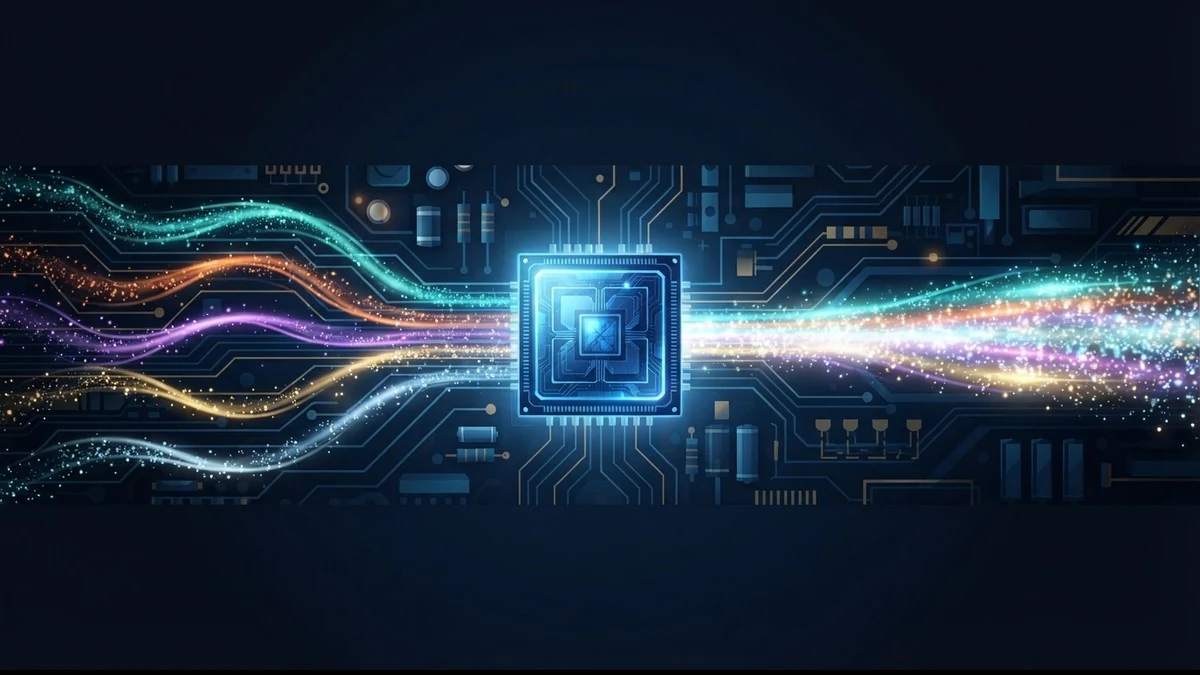
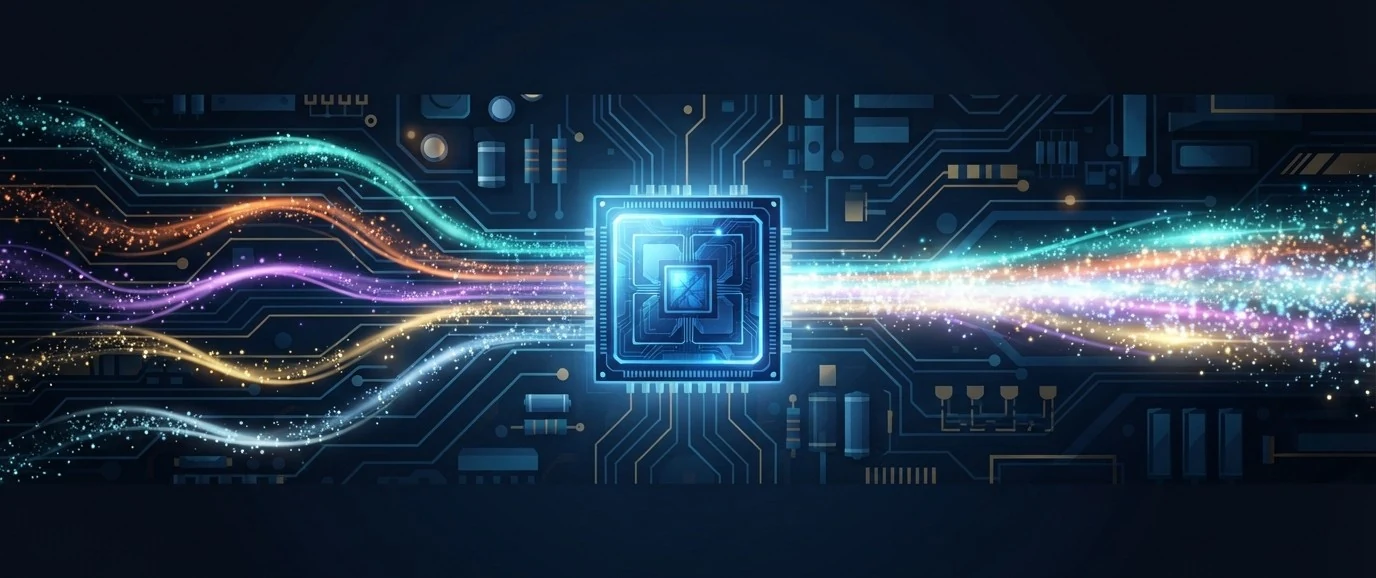
docs/serving-engines-v5e1: Advocu sheet and WebP cover

diff --git a/docs/serving-engines-v5e1/advocu-devto-serving-engines-v5e1.md b/docs/serving-engines-v5e1/advocu-devto-serving-engines-v5e1.md
@@ -26,7 +26,7 @@ googlecloud, tpu, vllm, jax
 https://dev.to/gde/six-serving-engines-on-one-cloud-tpu-v5e-chip-gemma-4-e2b-22hn
 
 ## Cover image
-advocu-devto-serving-engines-v5e1-cover.webp (1200x675 WebP, 79 KB, from builder-cover.jpg)
+advocu-devto-serving-engines-v5e1-cover.webp (1376x578 WebP, 94 KB, from devto-cover.7c2d5345.jpg)
 
 ---
 Save as draft rather than submitting, and read it back before you do.
